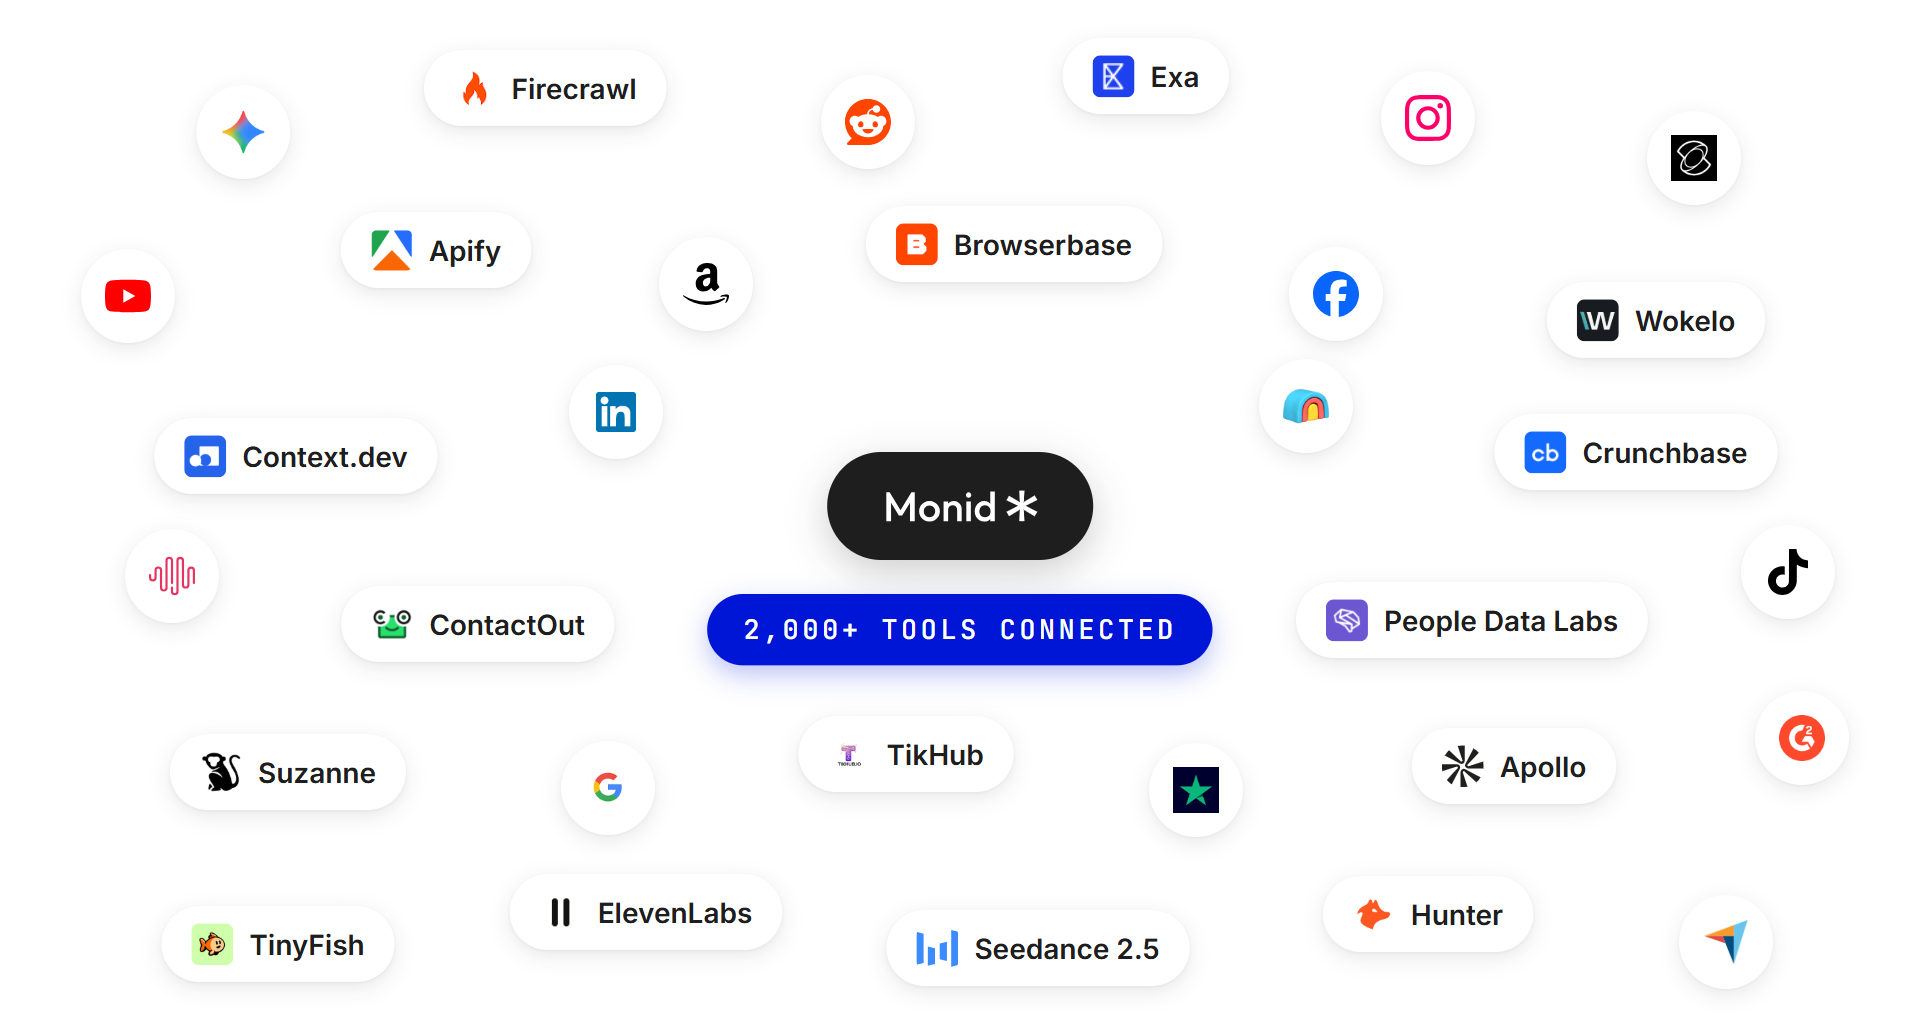
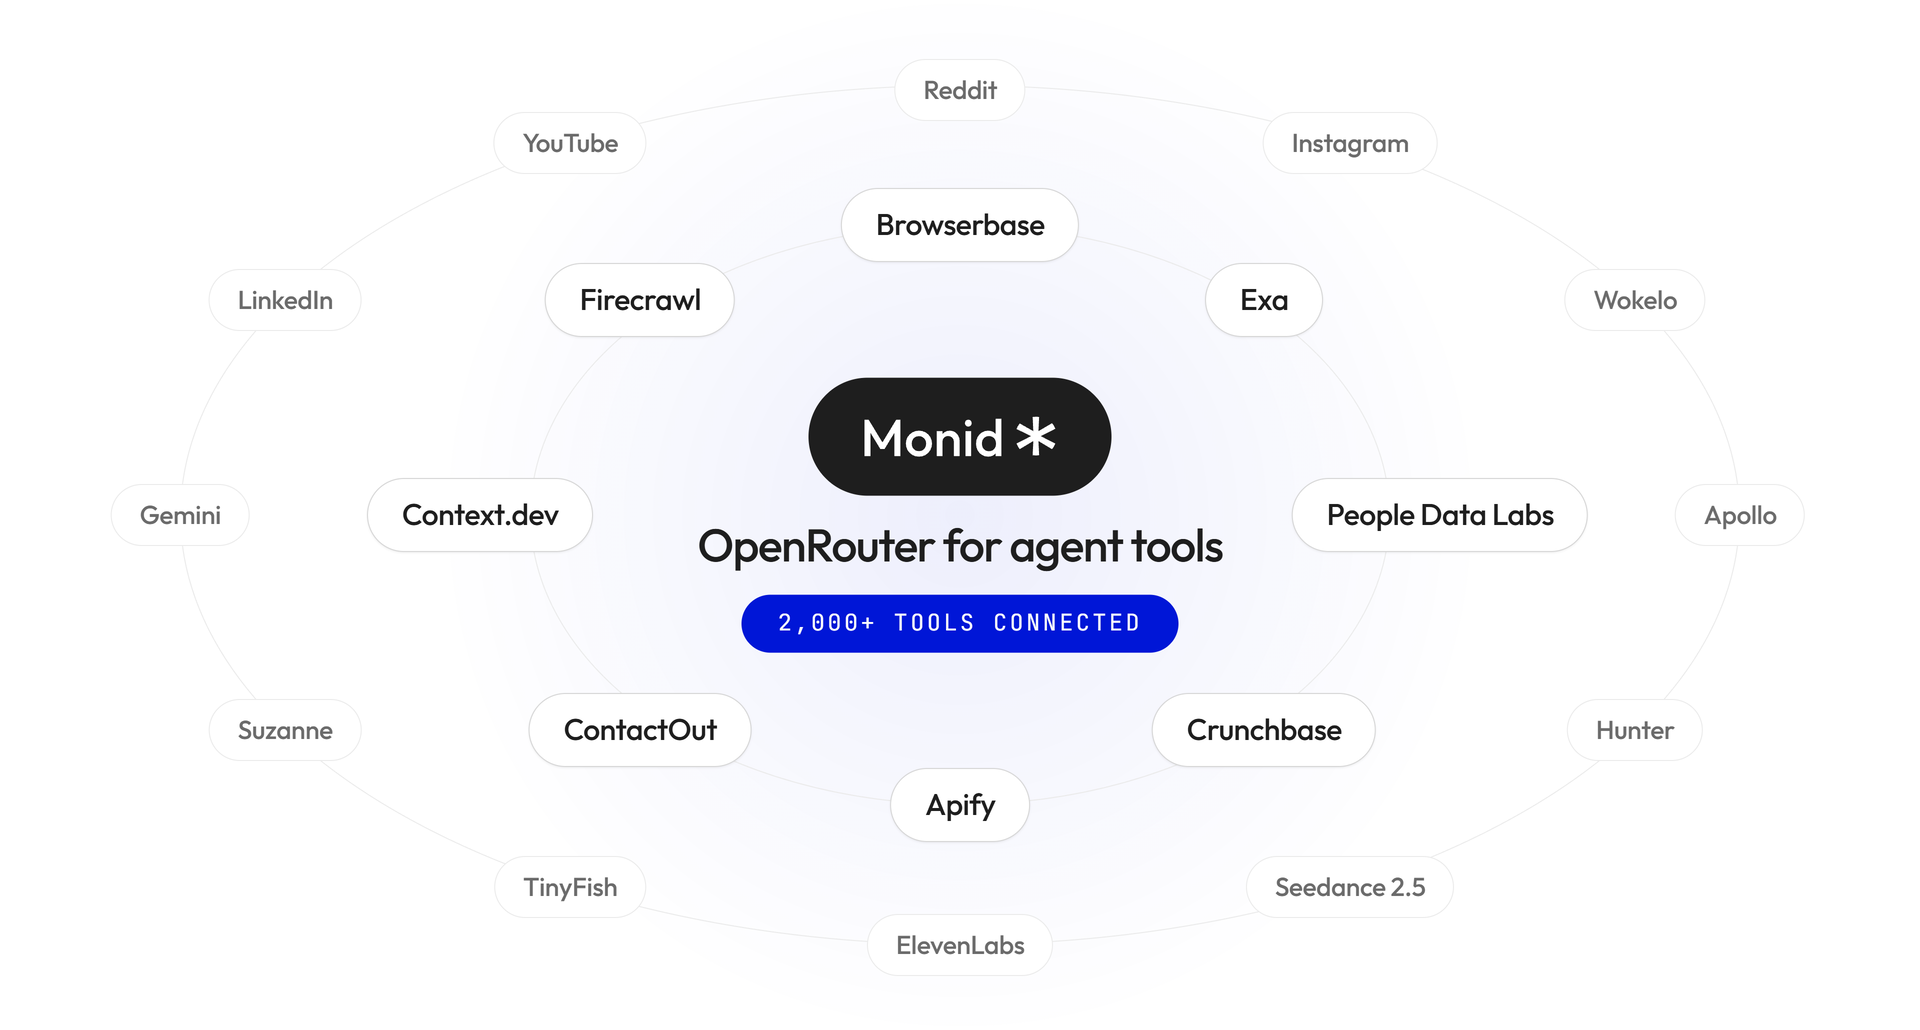
docs: swap in the orbit hero with the tagline set inside it
Downscaled from the 3840px source to 1920px wide, which is still 2x the
width GitHub renders a README image at, and takes the file from 1.6MB to
310KB.

diff --git a/README.md b/README.md
@@ -1,5 +1,5 @@
 <p align="center">
-  <a href="https://monid.ai"><img src="assets/monid-hero.png" alt="Monid at the centre, with the tools it connects around it"></a>
+  <a href="https://monid.ai"><img src="assets/monid-hero.png" alt="Monid at the centre, orbited by the tools it connects"></a>
 </p>
 
 <p align="center">
